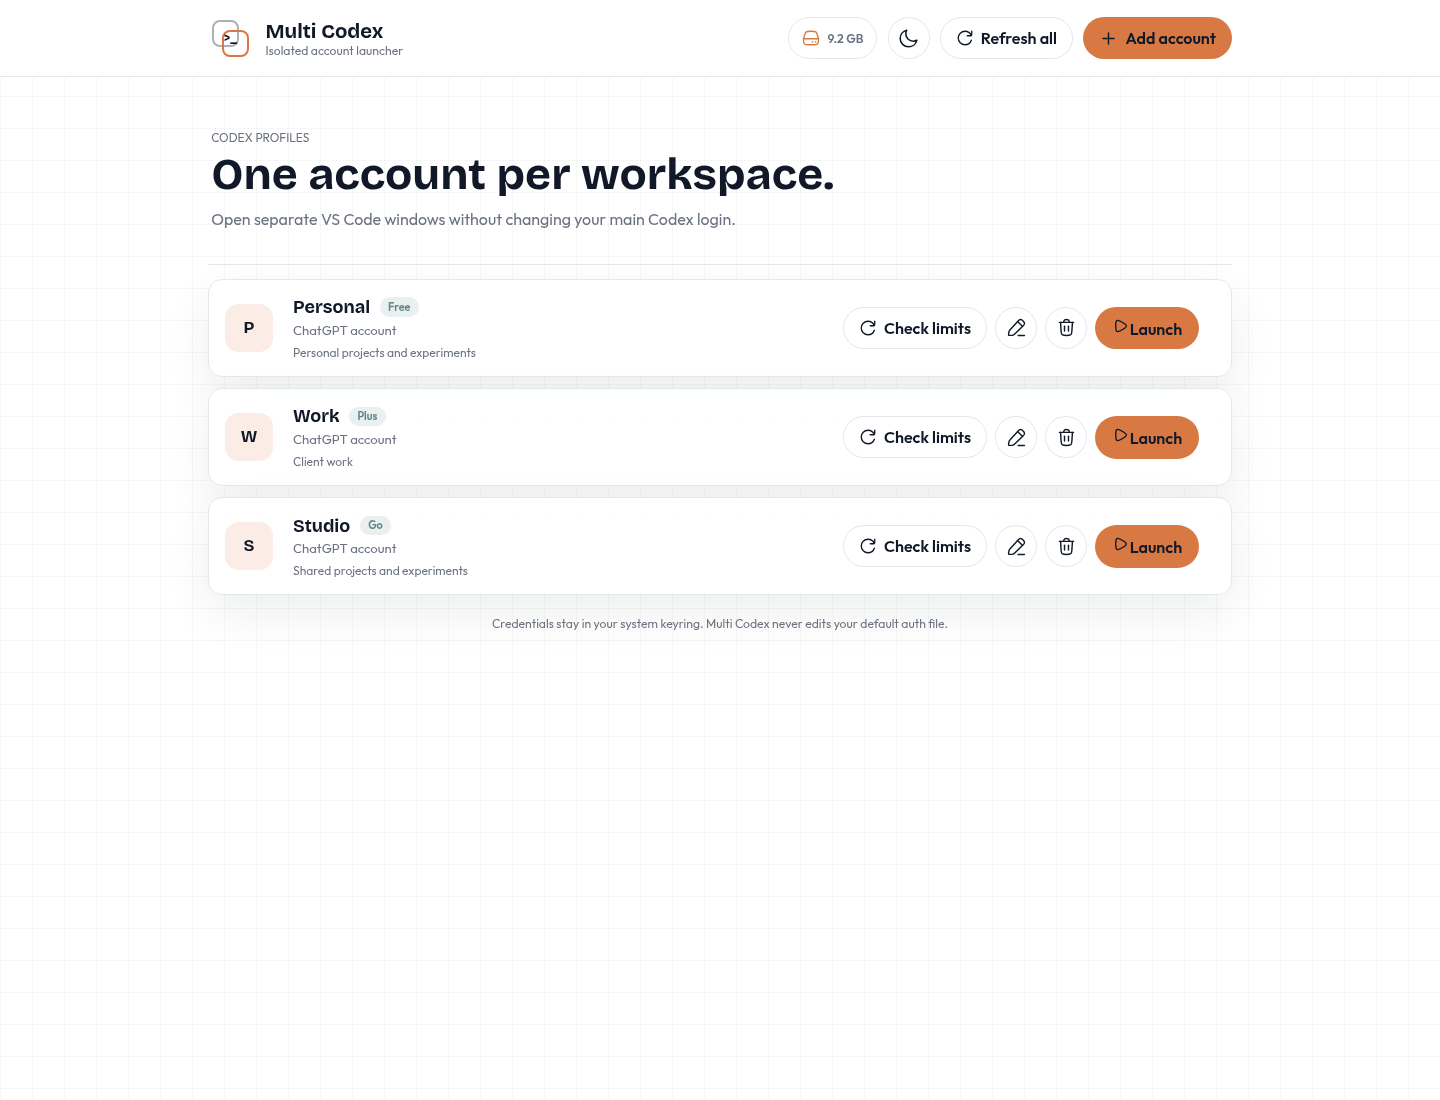
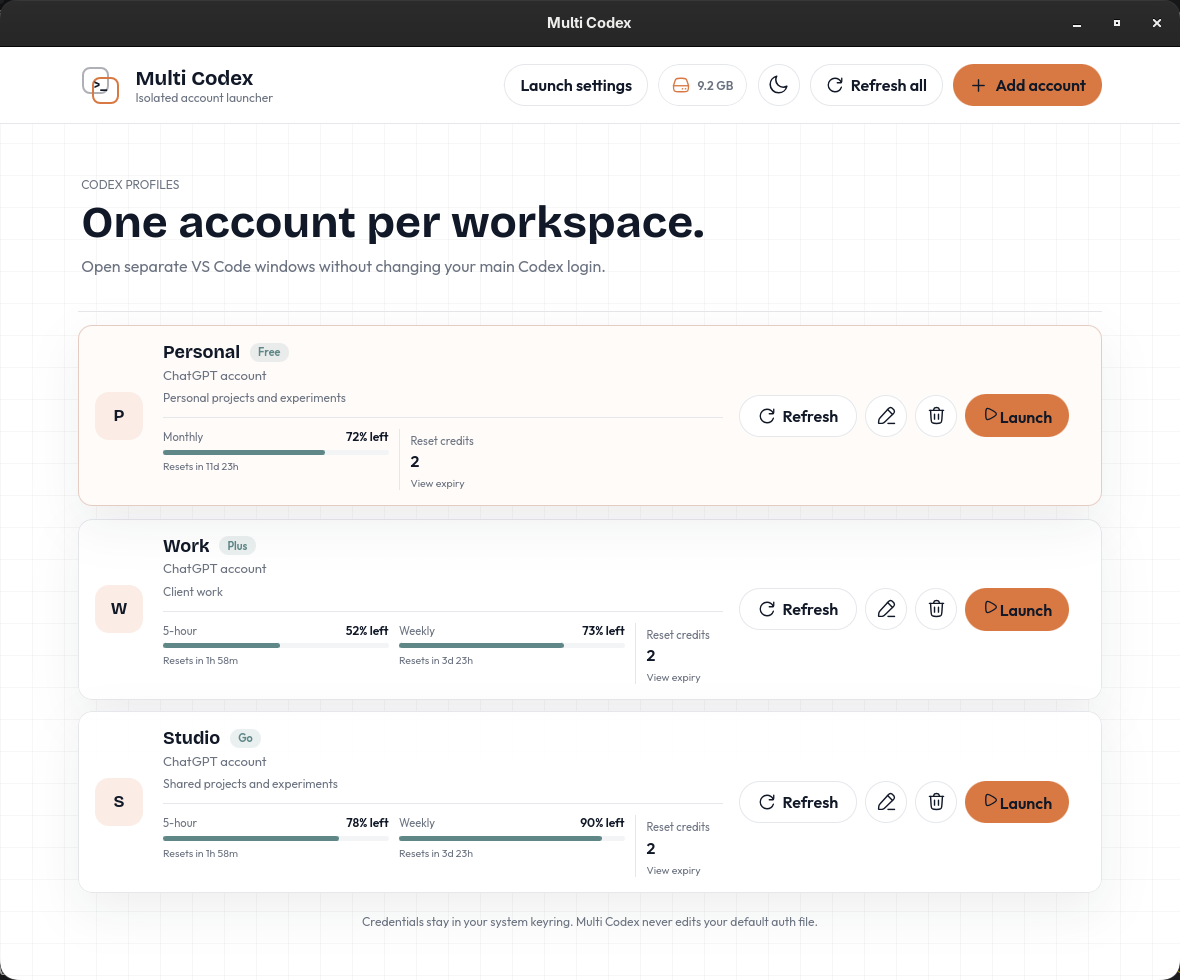
readme has proper desktop screenshots now

diff --git a/docs/releases/v1.3.4-local-verification.md b/docs/releases/v1.3.4-local-verification.md
@@ -1,0 +1,8 @@
+# v1.3.4 local verification
+
+- Frontend: 55 tests passed. Coverage includes onboarding save/retry/restart, preserving existing-account flow, preferred-folder browsing/cancel/save without launching, conditional app choices, the standalone gate, missing-app rechecks, and Linux/Mac toggle behavior.
+- Rust: 66 tests passed; 3 live Linux environment tests remain ignored. Settings migration/setup snapshots preserve credential and metadata fixtures. Executable detection distinguishes desktop app candidates from the CLI.
+- Production frontend build, Rust formatting, installer/release-gate tests, packaging checks and tracked secret scan passed.
+- README images are actual native Tauri/WebKitGTK window captures on Linux, with a real GTK titlebar at 1180x980. Fictional Personal/Work/Studio profiles and usage values come from the existing frontend demo API. No user account data appears in these images.
+- Native capture uses development-only `?demo=1`, a temporary HOME/XDG data/config/cache tree, and no inherited CODEX_HOME. Packaged builds always use native IPC. The release app does not use demo data.
+- Mac native verification runs in GitHub Actions. Authenticated standalone isolation, interactive permission dialogs, and signing/notarization remain unverified unless separate evidence is added to the release manifest.

diff --git a/README.md b/README.md
@@ -2,6 +2,8 @@
 
 Your Codex accounts, separate VS Code windows. Keep your default login untouched.
 
+Desktop screenshots with demo accounts.
+
 ![Multi Codex — light theme](tauri/public/light_screenshot.png)
 
 ![Multi Codex — dark theme](tauri/public/dark_screenshot.png)
@@ -44,4 +46,4 @@ bash /tmp/update-multi-codex.sh
 
 Updates replace the app while preserving saved accounts and profile data. Close Multi Codex before updating. To update without launching it, use `MULTI_CODEX_NO_LAUNCH=1 bash /tmp/update-multi-codex.sh`.
 
-The scripts install the latest **public stable release**, currently v1.2.3. The 1.3.3 preview remains a draft pending [release validation](docs/releases/v1.3.3-validation.json).
+The scripts install the latest **public stable release**, currently v1.2.3. The 1.3.4 preview remains a draft pending [release validation](docs/releases/v1.3.4-validation.json).
